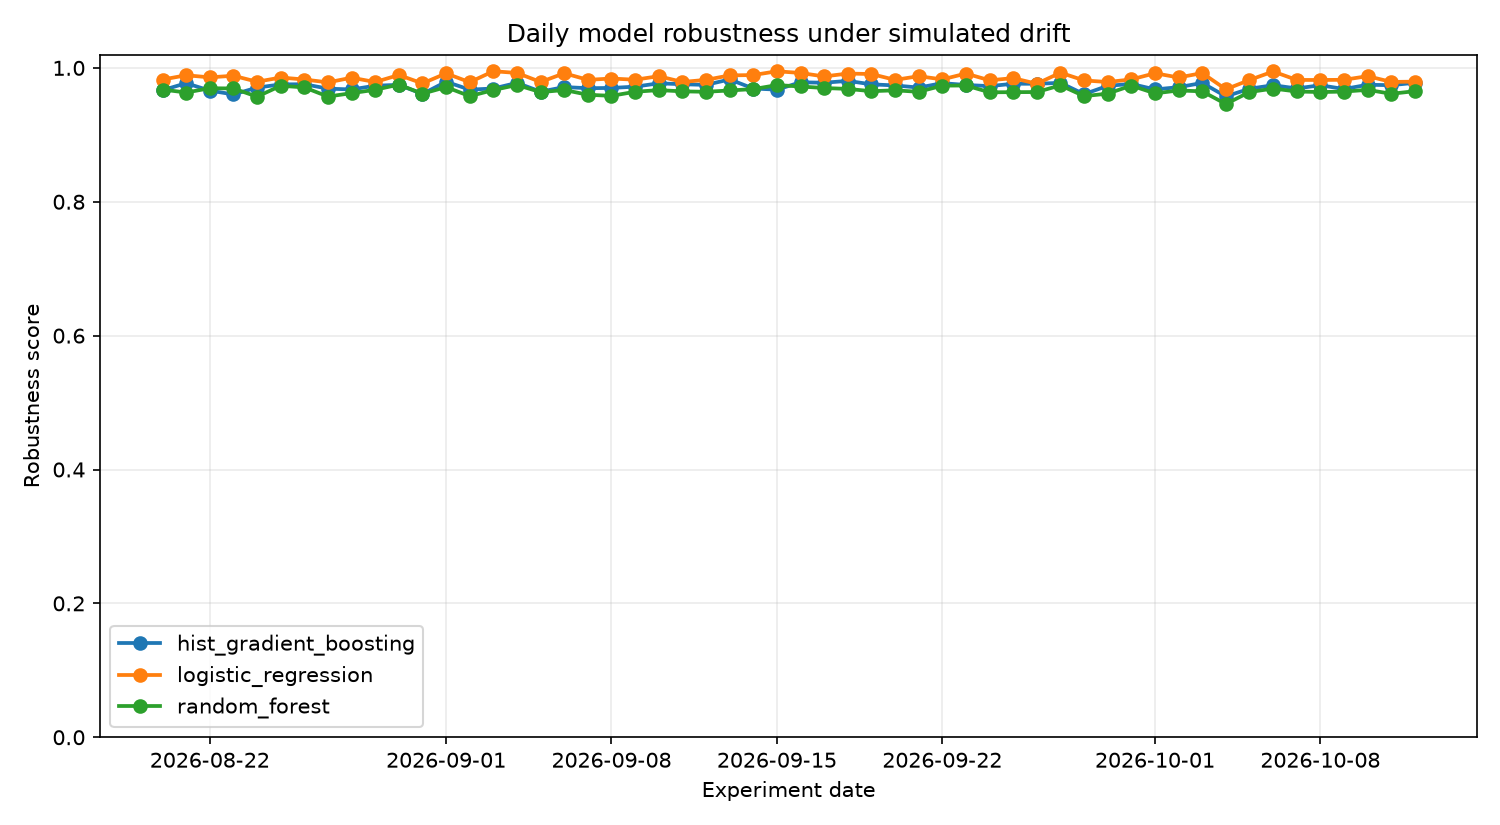
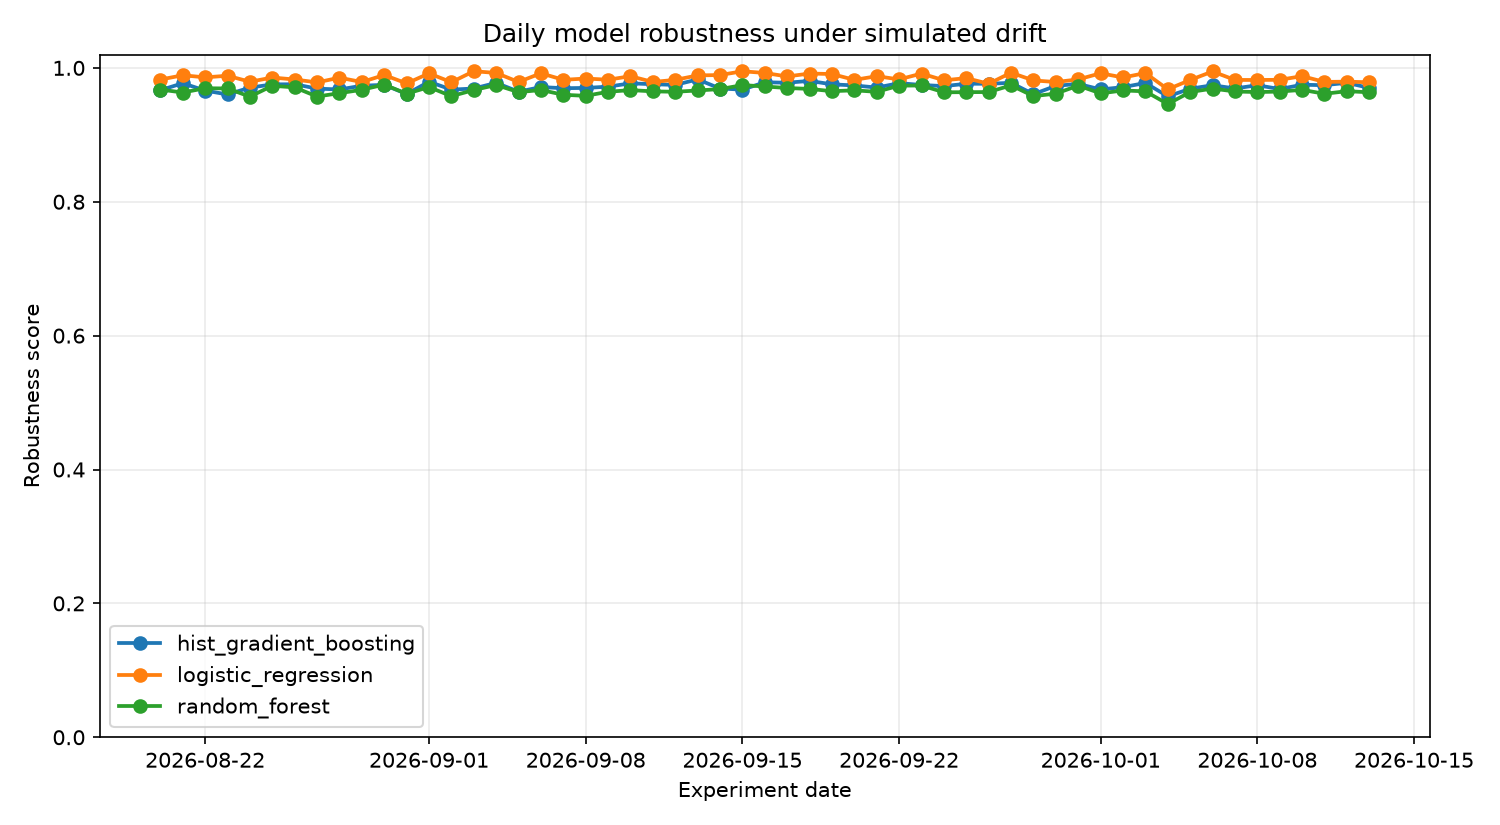
chore(observatory): daily drift benchmark 2026-10-13

diff --git a/reports/latest.md b/reports/latest.md
@@ -1,37 +1,37 @@
 # Latest DriftWatch Report
 
-**Experiment date:** 2026-10-12
+**Experiment date:** 2026-10-13
 
 ## Drift scenario
 
-- Drift strength: `0.295`
-- Scale factor: `1.030`
-- Noise ratio: `0.060`
+- Drift strength: `0.285`
+- Scale factor: `1.028`
+- Noise ratio: `0.059`
 - Mask ratio: `0.015`
-- Affected features: mean area, mean symmetry, smoothness error, fractal dimension error, worst concavity, worst symmetry
+- Affected features: mean smoothness, mean concave points, mean symmetry, symmetry error, worst smoothness, worst symmetry
 
 ## Model ranking
 
 | Rank | Model | Robustness | ROC-AUC | F1 | Balanced Acc. | Log Loss | Brier |
 |---:|---|---:|---:|---:|---:|---:|---:|
-| 1 | `logistic_regression` | 0.9794 | 0.9980 | 0.9665 | 0.9642 | 0.0871 | 0.0252 |
-| 2 | `hist_gradient_boosting` | 0.9777 | 0.9928 | 0.9722 | 0.9594 | 0.1138 | 0.0297 |
-| 3 | `random_forest` | 0.9652 | 0.9933 | 0.9479 | 0.9360 | 0.1276 | 0.0365 |
+| 1 | `logistic_regression` | 0.9785 | 0.9962 | 0.9665 | 0.9642 | 0.0930 | 0.0276 |
+| 2 | `hist_gradient_boosting` | 0.9701 | 0.9901 | 0.9630 | 0.9469 | 0.1411 | 0.0423 |
+| 3 | `random_forest` | 0.9635 | 0.9912 | 0.9484 | 0.9329 | 0.1377 | 0.0407 |
 
 ## Highest feature drift (PSI)
 
 | Feature | PSI |
 |---|---:|
-| fractal dimension error | 0.6974 |
-| worst concavity | 0.3393 |
-| smoothness error | 0.1976 |
-| mean area | 0.1832 |
-| texture error | 0.1664 |
-| mean symmetry | 0.1495 |
-| worst symmetry | 0.1194 |
-| concave points error | 0.1079 |
+| mean concave points | 0.3717 |
+| symmetry error | 0.2311 |
+| mean symmetry | 0.1911 |
+| texture error | 0.1765 |
+| worst concavity | 0.1599 |
+| mean smoothness | 0.1290 |
+| mean texture | 0.1093 |
+| worst concave points | 0.1035 |
 
-**Mean PSI:** `0.1188`  
-**Max PSI:** `0.6974`
+**Mean PSI:** `0.0971`  
+**Max PSI:** `0.3717`
 
 _Generated automatically by the DriftWatch daily observatory pipeline._
